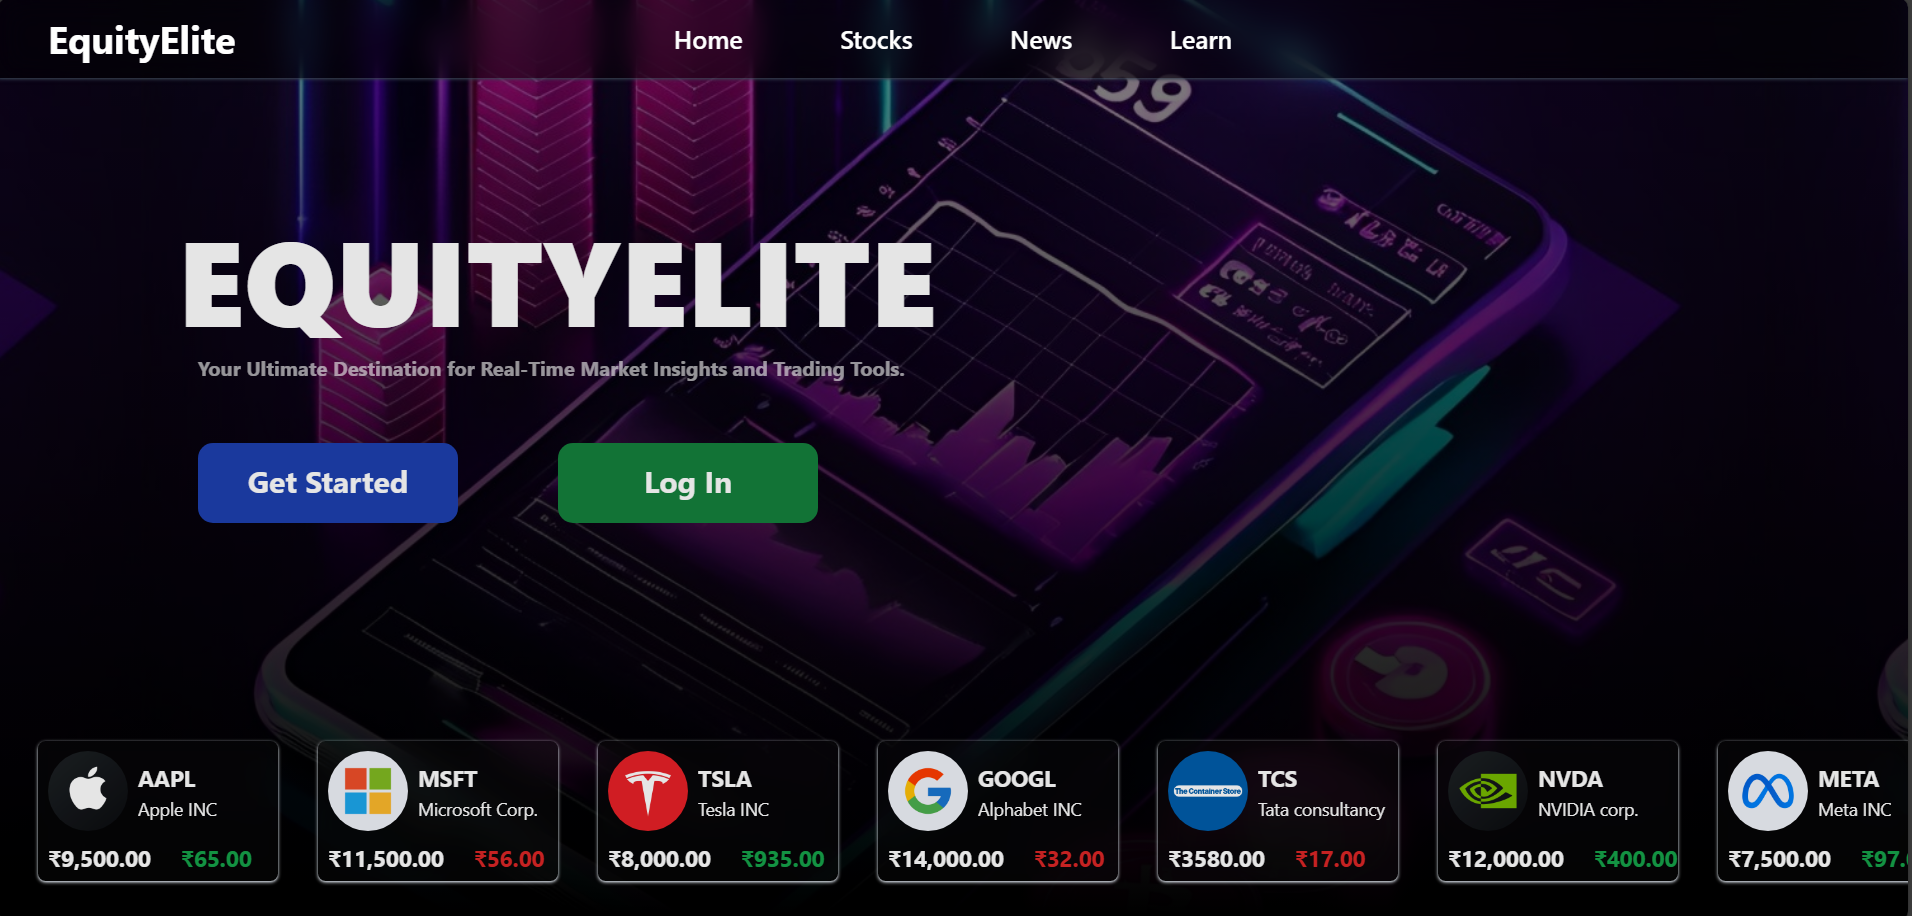
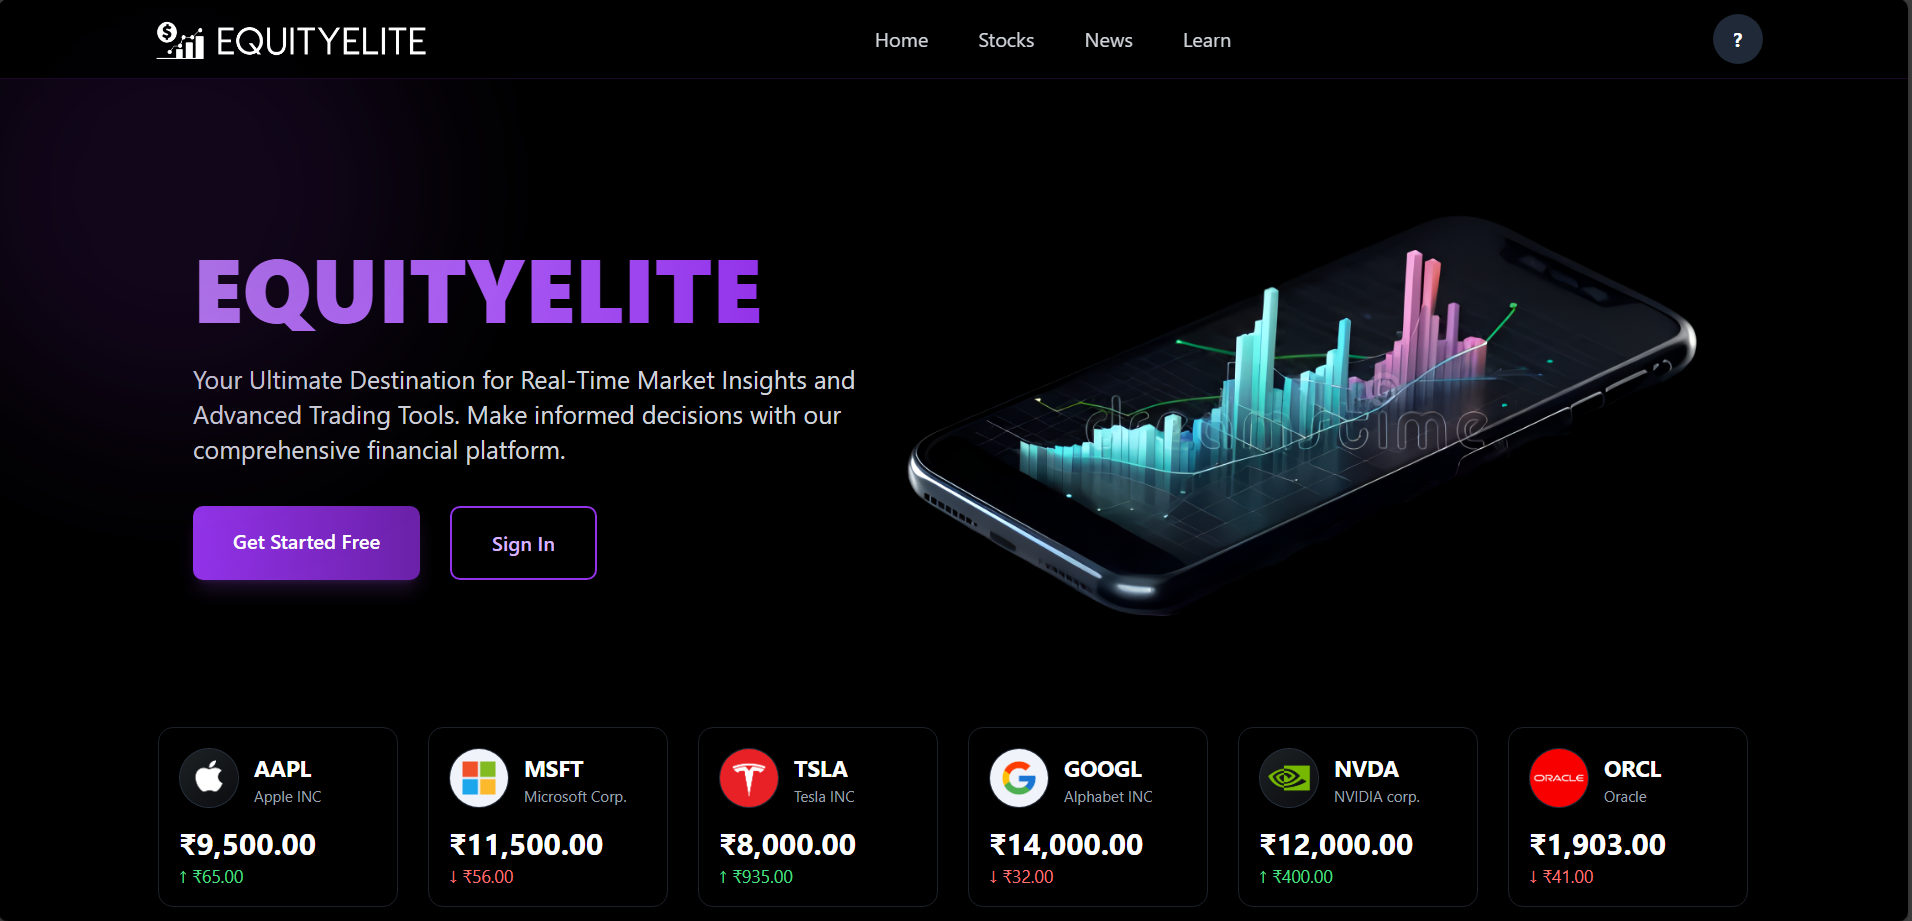
changed the equityelite image and link

diff --git a/src/components/Projects.jsx b/src/components/Projects.jsx
@@ -1,10 +1,11 @@
 import { motion } from 'framer-motion';
 import { Link } from 'react-router-dom';
 import Rdental from '../assets/RDental.png';
-import EquityElite from '../assets/EquityElite.png';
+import EquityElite from '../assets/equityelite.png';
 import ScannerOMR from '../assets/ScannerOMR.png';
 import Portfolio from '../assets/Portfolio.png';
 import drop_game from '../assets/drop_game.png';
+import FusionMedia from '../assets/FusionMedia.png';
 import {FaGithub} from 'react-icons/fa';
 // import TaskManager from '../assets/TaskManager.png';
 // import {fireDB} from '../firebase/firebaseConfig';
@@ -36,13 +37,24 @@ const Projects = () => {
       // gitLink: "https://github.com/Aadit-001/Rdental"
     },
     {
+      title: "Fusion Media",
+      description: "A freelancing project for Fusion Media which is a digital marketing agency",
+      tech: ["React","Tailwind CSS","Git","GitHub","Figma"],
+      image: FusionMedia, 
+      link: "https://fusionmedias.in",
+      live: "yes",
+      gitLink: "https://github.com/Aadit-001/FusionMediaa"
+    },
+    {
       title: "Equity Elite",
       description: "A Social Media Web Application for traders and Stock Market Analysts",
       tech: ["React", "Node.js","MongoDB","ExpressJs", "Tailwind CSS","Git", "GitHub"],
       image: EquityElite, 
-      link: "https://equityelite.vercel.app/",
+      link: "https://equityelite0.web.app",
+      live: "yes",
       gitLink: "https://github.com/Aadit-001/EquityElite"
     },
+
     {
       title: "ScannerOMR",
       description: "A web application integrated with flask and OpenCV for OMR sheet scanning.",

diff --git a/src/AllProjects.jsx b/src/AllProjects.jsx
@@ -1,11 +1,11 @@
 
 import { motion } from 'framer-motion'
-import { Link } from 'react-router-dom';
 import Rdental from './assets/RDental.png';
-import EquityElite from './assets/EquityElite.png';
+import EquityElite from './assets/equityelite.png';
 import ScannerOMR from './assets/ScannerOMR.png';
 import Portfolio from './assets/Portfolio.png';
 import drop_game from './assets/drop_game.png';
+import FusionMedia from './assets/FusionMedia.png';
 import {FaGithub} from 'react-icons/fa';
 
 function AllProjects() {
@@ -55,11 +55,21 @@ function AllProjects() {
       // gitLink: "https://github.com/Aadit-001/Rdental"
     },
     {
+      title: "Fusion Media",
+      description: "A freelancing project for Fusion Media which is a digital marketing agency",
+      tech: ["React","Tailwind CSS","Git","GitHub","Figma"],
+      image: FusionMedia, 
+      live: "yes",
+      link: "https://fusionmedias.in",
+      gitLink: "https://github.com/Aadit-001/FusionMediaa"
+    },
+    {
       title: "Equity Elite",
       description: "A Social Media Web Application for traders and Stock Market Analysts",
       tech: ["React", "Node.js","MongoDB","ExpressJs", "Tailwind CSS","Git", "GitHub"],
       image: EquityElite, 
-      link: "https://equityelite.vercel.app/",
+      link: "https://equityelite0.web.app/",
+      live: "yes",
       gitLink: "https://github.com/Aadit-001/EquityElite"
     },
     {

diff --git a/index.html b/index.html
@@ -4,6 +4,7 @@
     <meta charset="UTF-8" />
     <link rel="icon" type="image/png" href="/src/assets/FINAL_AADIT_LOGO.png" />
     <meta name="viewport" content="width=device-width, initial-scale=1.0" />
+    <meta name="google-site-verification" content="L1Xz0zvwoSQyzIkX-CWGvIQGGjb0l5menbro8hxezfc" />
     <title>Portfolio</title>
   </head>
   <body class="bg-slate-950">

diff --git a/googlee706ba26db1dd670.html b/googlee706ba26db1dd670.html
@@ -1,0 +1,1 @@
+google-site-verification: googlee706ba26db1dd670.html
